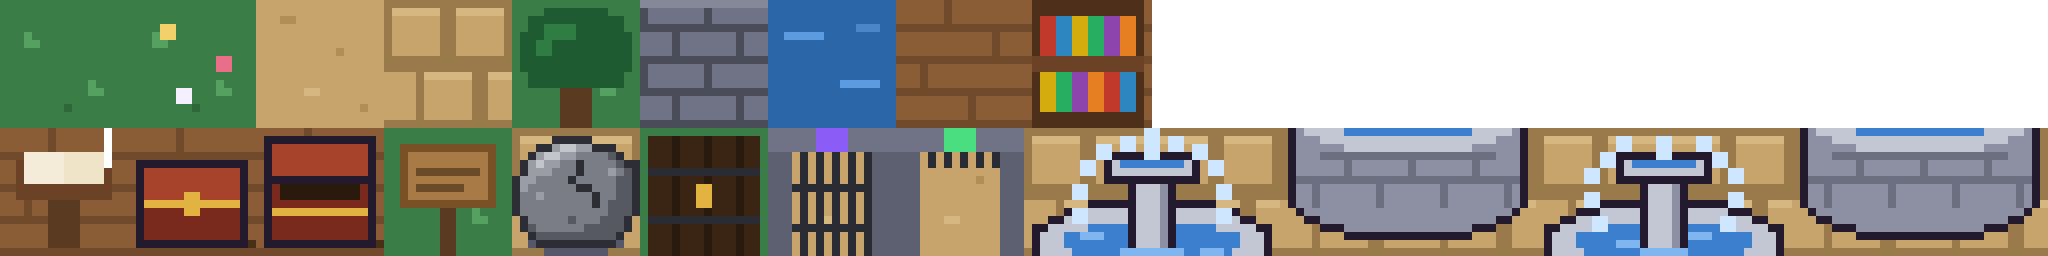
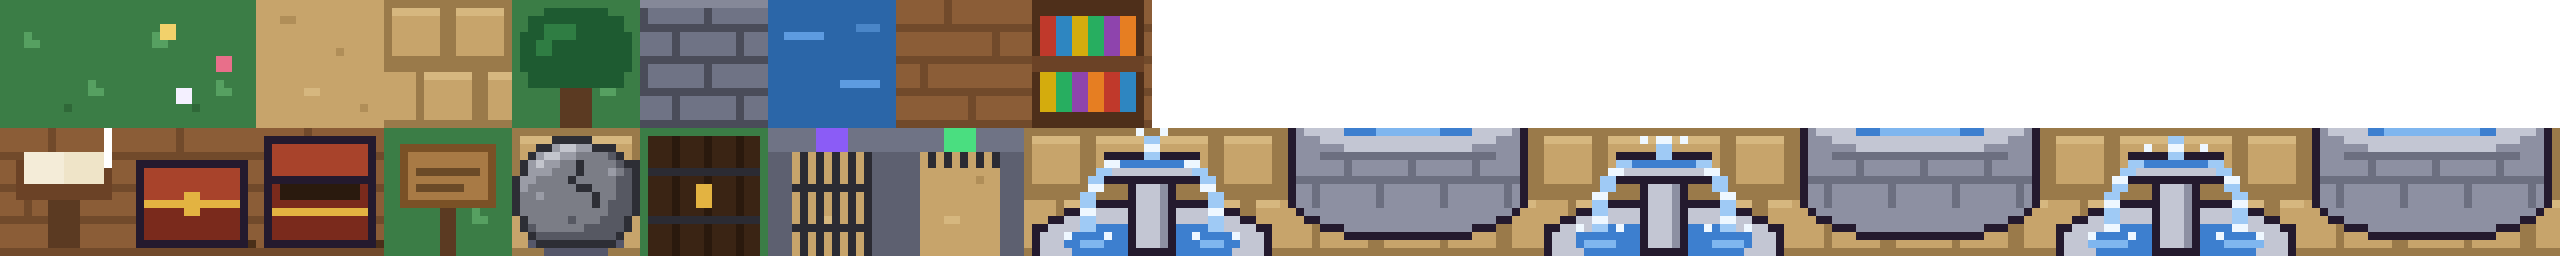
feat(game): drink from the fountain to restore hearts, and make its water flow
Facing the town fountain and pressing E or Enter restores half a heart, up
to two full hearts each game, with the outcome shown in a dialog. Health now
counts half hearts (bites still take a full heart) and the stats bar draws
half hearts.

Redraw the fountain's water as two streams spilling from the bowl, with
glints that travel down them over three frames, spreading ripples, splashes
and a bubbling jet, so it reads as flowing instead of a ring of dots.

diff --git a/app/src/game/scene.ts b/app/src/game/scene.ts
@@ -5,13 +5,24 @@ import { startPlayer } from './player-machine.ts'
 import { SHEETS } from './sheets.ts'
 import { KNIGHT_QUOTA, defeated, hasSteel, type MonsterKind } from './quest-machine.ts'
 import { MAX_HP, buzz, quest, type Dir } from './store.ts'
-import { enterGate, nightGate, openChest, readBook, readSign, talk, writeLedger } from './story.ts'
+import {
+  drinkFromFountain,
+  enterGate,
+  nightGate,
+  openChest,
+  readBook,
+  readSign,
+  talk,
+  writeLedger,
+} from './story.ts'
 import {
   MAP_HEIGHT,
   MAP_WIDTH,
   NPC_FRAME,
+  FOUNTAIN_FRAMES,
   TILE,
   WALKABLE,
+  isFountain,
   buildWorld,
   regionAt,
   type Point,
@@ -63,6 +74,9 @@ const SWORD_ANGLE: Record<Dir, number> = { up: 0, right: 90, down: 180, left: 27
 const SWORD_GRIP = 14 / 16
 const SWING = { from: 100, to: -50, ms: 160 }
 const ITEM = { swordWood: 0, swordSteel: 1 }
+
+/** A monster's bite takes a full heart (health counts half hearts). */
+const HIT_DAMAGE = 2
 
 /** Monsters never leave the fields. */
 const FIELDS = { x0: 1, y0: 1, x1: 15, y1: 16 }
@@ -261,18 +275,18 @@ export class KingdomScene extends Phaser.Scene {
     return this.world.tiles[p.y]?.[p.x] ?? TILE.tree
   }
 
-  /** Swaps the fountain's four tiles between its two frames, unless the player prefers less motion. */
+  /** Steps the fountain's four tiles through its frames, unless the player prefers less motion. */
   private animateFountain() {
     if (matchMedia('(prefers-reduced-motion: reduce)').matches) return
     const { x, y } = this.world.fountain
     let frame = 0
 
     this.time.addEvent({
-      delay: 260,
+      delay: 180,
       loop: true,
       callback: () => {
-        frame = 1 - frame
-        const first = frame ? TILE.fountainFrame2 : TILE.fountainTopLeft
+        frame = (frame + 1) % FOUNTAIN_FRAMES
+        const first = TILE.fountainTopLeft + frame * 4
 
         this.map?.putTileAt(first, x, y)
         this.map?.putTileAt(first + 1, x + 1, y)
@@ -421,6 +435,8 @@ export class KingdomScene extends Phaser.Scene {
     if (tile === TILE.lectern) void writeLedger()
 
     if (tile === TILE.nightGate) nightGate()
+
+    if (isFountain(tile)) drinkFromFountain()
   }
 
   private swing() {
@@ -628,7 +644,7 @@ export class KingdomScene extends Phaser.Scene {
   private hurt(dir: Dir) {
     if (this.mode.invulnerable() || !this.player) return
     this.mode.send({ type: 'HIT' })
-    const hp = quest.get().hp - 1
+    const hp = quest.get().hp - HIT_DAMAGE
     this.tweens.add({ targets: this.player, alpha: 0.2, duration: 90, yoyo: true, repeat: 4 })
 
     if (hp <= 0) {

diff --git a/app/src/game/story.ts b/app/src/game/story.ts
@@ -14,7 +14,7 @@ import {
 } from './content.ts'
 import { decide, routeYaml, type Identity } from './ppl.ts'
 import { KNIGHT_QUOTA, hasSteel, isAtLeast, stage, type QuestStage } from './quest-machine.ts'
-import { quest, type DenyView, type LogEntry } from './store.ts'
+import { MAX_HP, quest, type DenyView, type LogEntry } from './store.ts'
 import type { NpcId } from './world.ts'
 import { KINGDOM_DOMAIN, zoneById, type Zone, type ZoneId } from './zones.ts'
 
@@ -460,6 +460,43 @@ const siblingDomain = () => {
   const [first, ...rest] = location.hostname.split('.')
 
   return rest.length > 0 ? rest.join('.') : first
+}
+
+/** The town fountain restores half a heart per drink, up to two full hearts each game. */
+export const FOUNTAIN_LIMIT = 4
+
+const hearts = (halves: number) => {
+  const whole = Math.floor(halves / 2)
+
+  if (halves % 2 === 0) return `${whole} ${whole === 1 ? 'heart' : 'hearts'}`
+
+  return whole ? `${whole}½ hearts` : 'half a heart'
+}
+
+export function drinkFromFountain() {
+  const { hp, progress } = quest.get()
+  const left = FOUNTAIN_LIMIT - progress.fountainHealed
+  const say = (text: string) => quest.say([{ who: 'Town Fountain', text }])
+
+  if (hp >= MAX_HP) {
+    say("Cool, fresh water. You're already at full health.")
+
+    return
+  }
+
+  if (left <= 0) {
+    say("The water still runs, but it can't restore any more hearts this game.")
+
+    return
+  }
+
+  quest.setHp(hp + 1)
+  quest.progress({ fountainHealed: progress.fountainHealed + 1 })
+  say(
+    left > 1
+      ? `You drink the cool water and feel a little better: half a heart restored. The fountain has ${hearts(left - 1)} left to give this game.`
+      : "You drink the cool water and feel a little better: half a heart restored. That's all the fountain can give this game.",
+  )
 }
 
 export function nightGate() {

diff --git a/app/src/components/Quest.tsx b/app/src/components/Quest.tsx
@@ -508,12 +508,24 @@ function Hud() {
 
   return (
     <div className="flex items-center justify-between gap-3 font-display text-[1.05rem]">
-      <span aria-label={`${hp} of ${MAX_HP} hearts`}>
-        {Array.from({ length: MAX_HP }, (_, i) => (
-          <span key={i} className={i < hp ? 'mr-0.5 text-deny' : 'mr-0.5 text-heart-empty'}>
-            ♥
-          </span>
-        ))}
+      <span aria-label={`${hp / 2} of ${MAX_HP / 2} hearts`}>
+        {Array.from({ length: MAX_HP / 2 }, (_, i) => {
+          const fill = Math.min(Math.max(hp - i * 2, 0), 2)
+
+          return (
+            <span key={i} className="relative mr-0.5 inline-block text-heart-empty">
+              ♥
+              {fill > 0 && (
+                <span
+                  className={`absolute inset-0 text-deny ${fill === 1 ? '[clip-path:inset(0_50%_0_0)]' : ''}`}
+                  aria-hidden="true"
+                >
+                  ♥
+                </span>
+              )}
+            </span>
+          )
+        })}
       </span>
       <span className="text-sun">{region}</span>
       <span className="text-muted tabular-nums">

diff --git a/app/src/game/store.ts b/app/src/game/store.ts
@@ -22,6 +22,8 @@ export interface Progress {
   readonly dir: Dir
   readonly lessons: readonly LessonId[]
   readonly brokenRocks: readonly string[]
+  /** Half hearts the town fountain has restored this game (it gives at most FOUNTAIN_LIMIT). */
+  readonly fountainHealed: number
   /** True once a game has been started, so the title screen offers Continue. */
   readonly playedBefore: boolean
   /** Simulated-mode identity; in Pomerium mode the identity comes from the session. */
@@ -93,7 +95,8 @@ export interface QuestState {
   readonly savedAt: string | null
 }
 
-export const MAX_HP = 5
+/** Health is counted in half hearts: 10 is five full hearts. */
+export const MAX_HP = 10
 
 /** A short buzz on phones that support it (not iPhones); nothing depends on it. */
 export const buzz = (pattern: number | number[]) => {
@@ -109,6 +112,7 @@ const freshProgress = (): Progress => ({
   dir: 'right',
   lessons: [],
   brokenRocks: [],
+  fountainHealed: 0,
   playedBefore: false,
   sim: { signedIn: false, groups: [], pendingGroups: [] },
 })

diff --git a/app/src/game/world.ts b/app/src/game/world.ts
@@ -25,11 +25,14 @@ export const TILE = {
   fountainTopRight: 18,
   fountainBottomLeft: 19,
   fountainBottomRight: 20,
-  /** The fountain's second animation frame starts here, in the same order. */
-  fountainFrame2: 21,
 } as const
 
 export type TileId = (typeof TILE)[keyof typeof TILE]
+
+/** The fountain's animation frames follow its first four tiles, four tiles per frame in the same order. */
+export const FOUNTAIN_FRAMES = 3
+
+export const isFountain = (tile: number) => tile >= TILE.fountainTopLeft && tile <= TILE.fountainBottomRight
 
 export const WALKABLE: ReadonlySet<number> = new Set([
   TILE.grass,

diff --git a/app/src/game/sheets.ts b/app/src/game/sheets.ts
@@ -3,5 +3,5 @@ export const SHEETS = {
   dog: '/assets/dog.png?v=a3fa682dcb',
   items: '/assets/items.png?v=8b19d504e1',
   npcs: '/assets/npcs.png?v=b74c465442',
-  tiles: '/assets/tiles.png?v=580b26c8ce',
+  tiles: '/assets/tiles.png?v=59af1e10f8',
 } as const
